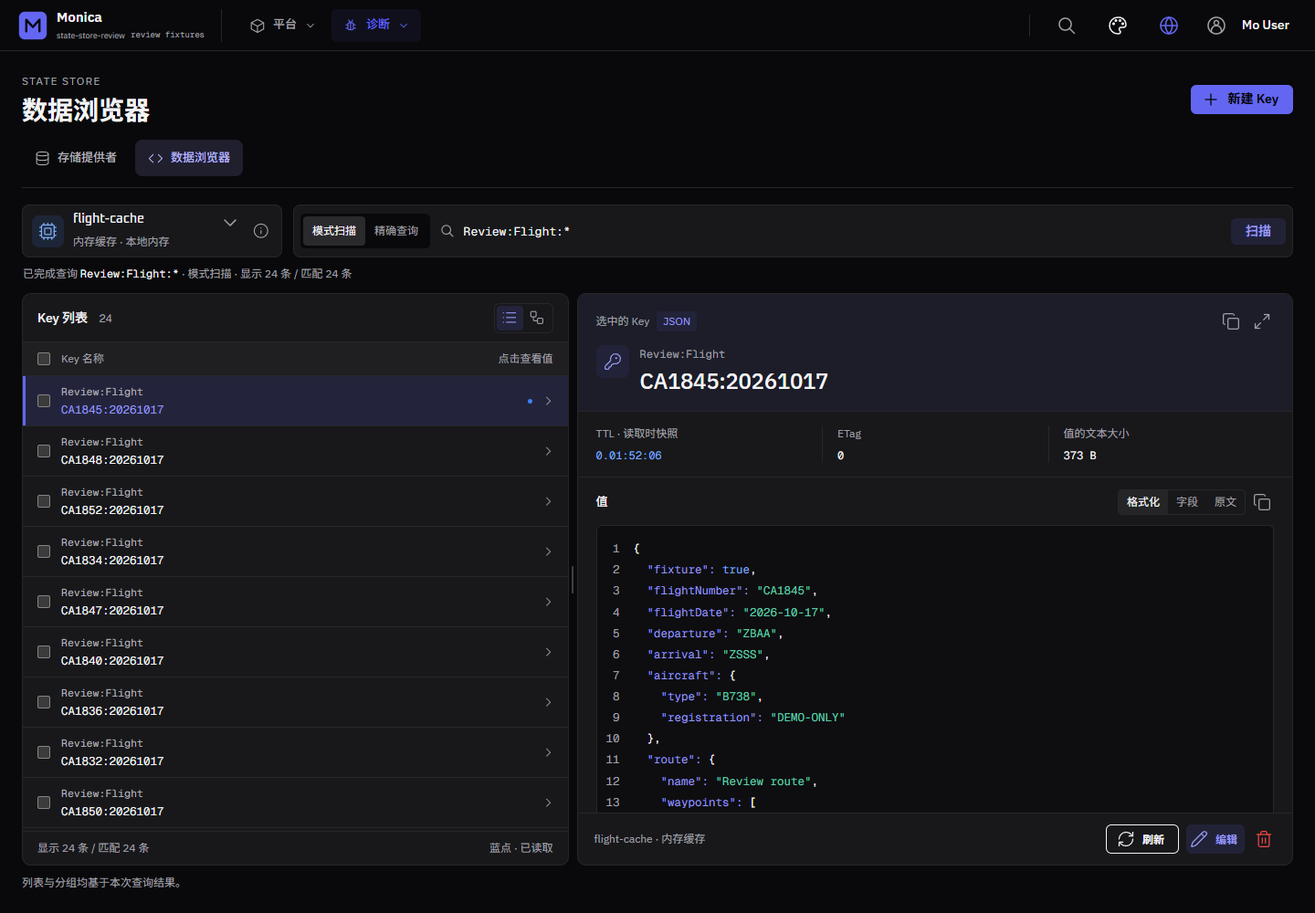
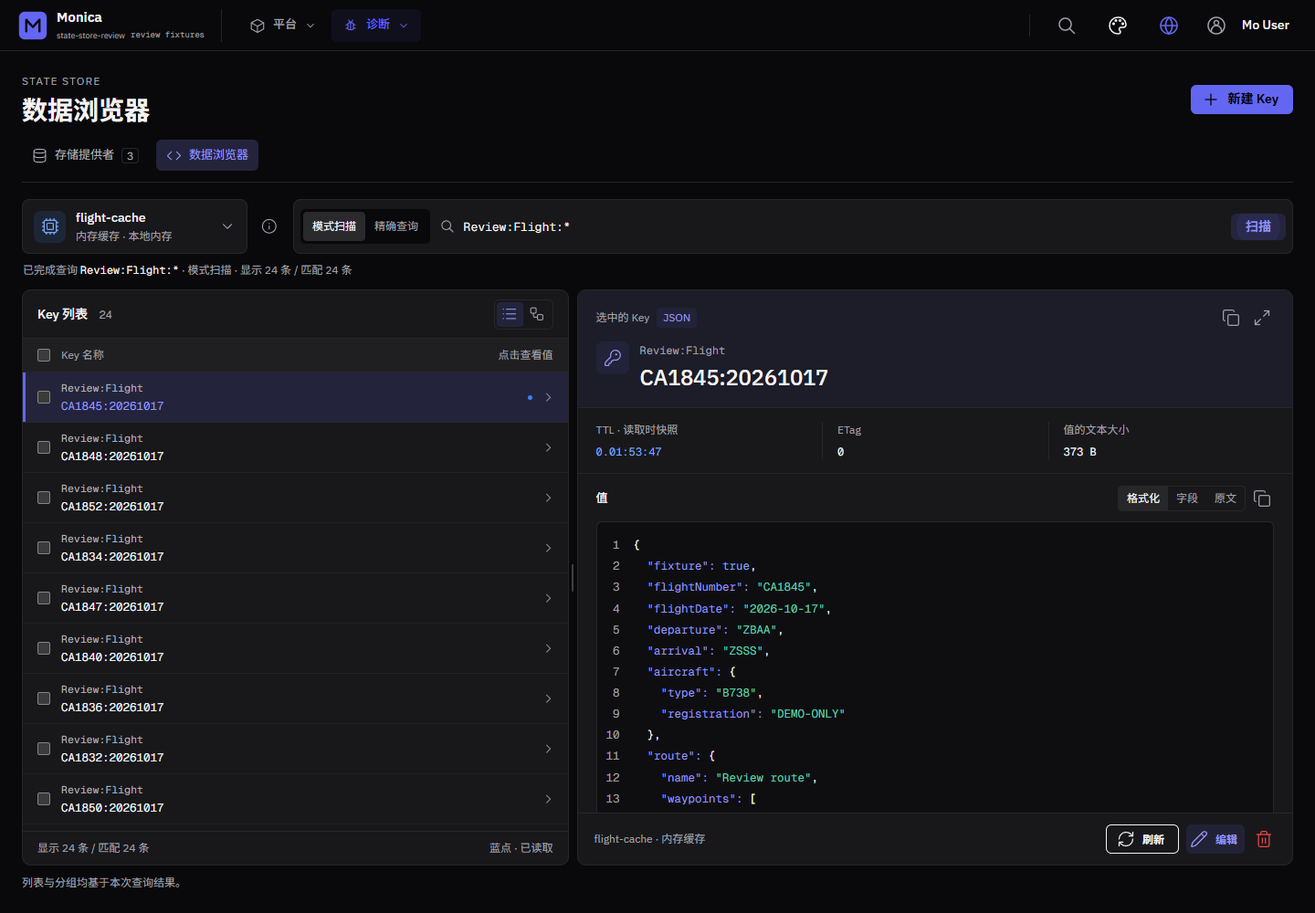
fix(state-store-ui): match provider selector and hover states to prototype
Restore provider icons, two-line scope labels, menu heading, selected marker and visible hover feedback while preserving native select behavior and opaque identities. Bound compact popovers to the viewport and retain readable text across themes.

Verified the Release solution build with zero warnings, all 30 standard test projects, localization and skill checks, and browser checks for six theme modes, keyboard selection, hover feedback and narrow viewports.

diff --git a/Monica.StateStore.UI/UIStateStore/Components/StateStoreKeyExplorer.razor.css b/Monica.StateStore.UI/UIStateStore/Components/StateStoreKeyExplorer.razor.css
@@ -1,30 +1,24 @@
-.state-browser-workspace {width:100%;min-width:0;display:flex;flex-direction:column;color:var(--mud-palette-text-primary);font-family:var(--mo-font-family-body);--state-primary-ink:color-mix(in srgb,var(--mud-palette-primary) 65%,var(--mud-palette-text-primary));}
+.state-browser-workspace {width:100%;min-width:0;display:flex;flex-direction:column;color:var(--mud-palette-text-primary);font-family:var(--mo-font-family-body);--state-primary-ink:color-mix(in srgb,var(--mud-palette-primary) 65%,var(--mud-palette-text-primary));--state-hover-surface:color-mix(in srgb,var(--mud-palette-text-primary) 7%,var(--mud-palette-surface));}
 .workspace-identity {display:flex;align-items:center;justify-content:space-between;gap:16px;margin-bottom:15px;}
 .workspace-identity__copy {min-width:0;}
 .state-browser-workspace ::deep .mo-workbench-navigation {margin-bottom:18px;}
 .workspace-commands {display:grid;grid-template-columns:285px minmax(0,1fr);gap:12px;}
-.provider-context {position:relative;display:grid;grid-template-columns:35px minmax(0,1fr) 24px;grid-template-rows:23px 19px;column-gap:10px;align-items:center;min-width:0;border:1px solid var(--mud-palette-lines-default);border-radius:8px;background:var(--mud-palette-surface);padding:7px 10px;}
-.provider-symbol {grid-row:1/3;display:flex;align-items:center;justify-content:center;width:35px;height:35px;border-radius:8px;background:color-mix(in srgb,var(--mud-palette-primary) 14%,var(--mud-palette-surface));color:var(--state-primary-ink);}
-.provider-symbol[data-tone="info"] {background:color-mix(in srgb,var(--mud-palette-info) 13%,var(--mud-palette-surface));color:color-mix(in srgb,var(--mud-palette-info) 65%,var(--mud-palette-text-primary));}
-.provider-symbol[data-tone="secondary"] {background:color-mix(in srgb,var(--mud-palette-secondary) 13%,var(--mud-palette-surface));color:color-mix(in srgb,var(--mud-palette-secondary) 65%,var(--mud-palette-text-primary));}
-.provider-name {font-size:14px;font-weight:500;overflow:hidden;text-overflow:ellipsis;white-space:nowrap;}
-.provider-description {grid-column:2;grid-row:2;font-size:12px;color:var(--mud-palette-text-secondary);white-space:nowrap;text-overflow:ellipsis;overflow:hidden;}
-.provider-info {grid-column:3;grid-row:1/3;display:flex;align-items:center;justify-content:center;color:var(--mud-palette-text-secondary);width:24px;height:32px;}
-.provider-context ::deep .provider-select {grid-column:2;grid-row:1;margin:0;min-width:0;}
-.provider-context ::deep .mud-input {font-size:14px;font-weight:500;}
-.provider-context ::deep .mud-input::before,.provider-context ::deep .mud-input::after {display:none;}
-.provider-context ::deep .mud-select-input {padding-block:0;min-height:23px;}
-.provider-option {white-space:normal;overflow-wrap:anywhere;}
+.provider-context {display:flex;align-items:center;gap:9px;min-width:0;}
+.provider-context ::deep .provider-picker {flex:1;}
+.provider-info {display:flex;align-items:center;justify-content:center;flex:0 0 auto;color:var(--mud-palette-text-secondary);width:29px;height:36px;border-radius:6px;}
+.provider-info:hover {color:var(--mud-palette-text-primary);background:var(--state-hover-surface);}
 .query-context {display:flex;align-items:center;gap:10px;min-width:0;border:1px solid var(--mud-palette-lines-default);border-radius:8px;background:var(--mud-palette-surface);padding:7px;}
 .mode-switch {display:flex;align-items:center;background:var(--mud-palette-background);padding:3px;border-radius:5px;flex:0 0 auto;}
 .mode-switch button {font:inherit;font-size:12px;color:var(--mud-palette-text-secondary);background:none;border:0;border-radius:4px;padding:7px 10px;cursor:pointer;white-space:nowrap;}
 .mode-switch button[aria-pressed="true"] {color:var(--mud-palette-text-primary);background:color-mix(in srgb,var(--mud-palette-text-primary) 8%,var(--mud-palette-surface));}
+.mode-switch button:hover:not(:disabled) {color:var(--mud-palette-text-primary);background:var(--state-hover-surface);}
 .mode-switch button:disabled {opacity:.4;cursor:default;}
 .query-input {display:flex;align-items:center;gap:9px;flex:1;min-width:35px;color:var(--mud-palette-text-secondary);}
 .query-input input {width:100%;min-width:0;background:none;color:var(--mud-palette-text-primary);border:0;font:13px var(--mo-font-family-mono,monospace);padding:7px 0;outline-offset:3px;}
 .query-input input:focus {outline:none;}
 .query-input:focus-within {box-shadow:0 2px var(--mud-palette-primary);}
 .query-context ::deep .query-submit:not(:disabled):not(.mud-disabled) {background:color-mix(in srgb,var(--mud-palette-primary) 13%,var(--mud-palette-surface));color:var(--state-primary-ink);min-width:60px;}
+.query-context ::deep .query-submit:hover:not(:disabled):not(.mud-disabled) {background:color-mix(in srgb,var(--mud-palette-primary) 21%,var(--mud-palette-surface));}
 .accepted-context {display:flex;gap:6px 12px;flex-wrap:wrap;align-items:center;min-width:0;padding:9px 1px 12px;font-size:12px;color:var(--mud-palette-text-secondary);}
 .accepted-context code {color:var(--mud-palette-text-primary);overflow-wrap:anywhere;}
 .draft-hint {color:color-mix(in srgb,var(--mud-palette-warning) 65%,var(--mud-palette-text-primary));}
@@ -36,13 +30,14 @@
 .view-toggle {display:flex;gap:1px;border:1px solid var(--mud-palette-lines-default);border-radius:6px;padding:2px;}
 .view-toggle button {display:flex;align-items:center;justify-content:center;width:29px;height:27px;border-radius:4px;border:0;background:none;color:var(--mud-palette-text-secondary);cursor:pointer;}
 .view-toggle button[aria-pressed="true"] {background:color-mix(in srgb,var(--mud-palette-primary) 15%,var(--mud-palette-surface));color:var(--state-primary-ink);}
+.view-toggle button:not([aria-pressed="true"]):hover {color:var(--mud-palette-text-primary);background:var(--state-hover-surface);}
 .list-column-heading {display:flex;align-items:center;gap:12px;padding:9px 16px;font-size:12px;color:var(--mud-palette-text-secondary);background:color-mix(in srgb,var(--mud-palette-text-primary) 3%,var(--mud-palette-surface));border-bottom:1px solid var(--mud-palette-lines-default);flex:0 0 auto;}
 .list-column-heading>span:last-child {margin-left:auto;}
 input[type="checkbox"] {width:14px;height:14px;margin:0;accent-color:var(--mud-palette-primary);flex:0 0 auto;cursor:pointer;}
 .inventory-body {flex:1;min-height:0;overflow:hidden;}
 .results-list {height:100%;overflow-y:auto;overflow-x:hidden;scrollbar-width:thin;}
-.result-row {position:relative;display:flex;align-items:center;gap:12px;min-width:0;padding:0 14px 0 16px;border-bottom:1px solid var(--mud-palette-lines-default);}
-.result-row:hover {background:color-mix(in srgb,var(--mud-palette-text-primary) 4%,var(--mud-palette-surface));}
+.result-row {position:relative;display:flex;align-items:center;gap:12px;min-width:0;padding:0 14px 0 16px;border-bottom:1px solid color-mix(in srgb,var(--mud-palette-lines-default) 65%,transparent);}
+.result-row:hover {background:var(--state-hover-surface);}
 .result-row.is-selected {background:color-mix(in srgb,var(--mud-palette-primary) 15%,var(--mud-palette-surface));}
 .result-row.is-selected::before {position:absolute;content:"";left:0;top:0;bottom:0;width:3px;background:var(--mud-palette-primary);}
 .result-select {display:flex;align-items:center;gap:10px;flex:1;min-width:0;padding:8px 0;min-height:53px;text-align:start;border:0;background:none;color:inherit;font:inherit;cursor:pointer;}
@@ -60,6 +55,7 @@ input[type="checkbox"] {width:14px;height:14px;margin:0;accent-color:var(--mud-p
 .key-group {border-bottom:1px solid var(--mud-palette-lines-default);}
 .key-group>summary {list-style:none;display:flex;align-items:center;gap:8px;padding:13px 15px;cursor:pointer;}
 .key-group>summary::-webkit-details-marker {display:none;}
+.key-group>summary:hover {background:var(--state-hover-surface);}
 .key-group>summary code {font-size:12px;overflow-wrap:anywhere;min-width:0;}
 .key-group>summary>span {margin-left:auto;color:var(--mud-palette-text-secondary);font:12px var(--mo-font-family-mono,monospace);}
 .key-group>summary ::deep .mo-icon:nth-child(2) {color:var(--state-primary-ink);}
@@ -71,6 +67,7 @@ input[type="checkbox"] {width:14px;height:14px;margin:0;accent-color:var(--mud-p
 .inspector-heading {padding:17px 20px 16px;background:color-mix(in srgb,var(--mud-palette-primary) 6%,var(--mud-palette-surface));border-bottom:1px solid var(--mud-palette-lines-default);flex:0 0 auto;}
 .inspector-topline {display:flex;align-items:center;gap:8px;color:var(--mud-palette-text-secondary);font-size:12px;margin-bottom:13px;}
 .inspector-topline ::deep .copy-key {margin-left:auto;}
+.inspector-topline ::deep .mud-icon-button:hover:not(:disabled):not(.mud-disabled) {color:var(--mud-palette-text-primary);background:var(--state-hover-surface);}
 .format-badge {color:var(--state-primary-ink);background:color-mix(in srgb,var(--mud-palette-primary) 14%,var(--mud-palette-surface));padding:2px 7px;border-radius:4px;font-size:12px;}
 .key-identity {display:flex;align-items:flex-start;gap:12px;min-width:0;}
 .key-identity>div {min-width:0;}
@@ -89,7 +86,9 @@ input[type="checkbox"] {width:14px;height:14px;margin:0;accent-color:var(--mud-p
 .inspector-actions>div {display:flex;align-items:center;flex-wrap:wrap;justify-content:flex-end;gap:8px;}
 .inspector-actions ::deep .mud-button {font-size:12px;}
 .inspector-actions ::deep .edit-key:not(:disabled):not(.mud-disabled) {background:color-mix(in srgb,var(--mud-palette-primary) 13%,var(--mud-palette-surface));color:var(--state-primary-ink);}
+.inspector-actions ::deep .edit-key:hover:not(:disabled):not(.mud-disabled) {background:color-mix(in srgb,var(--mud-palette-primary) 21%,var(--mud-palette-surface));}
 .back-to-keys {display:none;align-items:center;gap:6px;font:inherit;font-size:12px;background:none;border:0;color:var(--mud-palette-text-secondary);cursor:pointer;padding:0;}
+.back-to-keys:hover {color:var(--mud-palette-text-primary);}
 .mobile-provider {display:none;min-width:0;max-width:110px;overflow:hidden;text-overflow:ellipsis;white-space:nowrap;}
 .state-browser-workspace code {font-family:var(--mo-font-family-mono,monospace);font-weight:400;}
 .results-note {font-size:12px;color:var(--mud-palette-text-secondary);margin:10px 0 0;}
@@ -106,6 +105,7 @@ button:focus-visible,a:focus-visible,.inventory-heading:focus,.inspector-heading
 .state-browser-workspace[data-expanded="true"]:not([data-compact="true"]) .workspace-master-detail {grid-template-columns:minmax(0,1fr);}
 .state-browser-workspace[data-expanded="true"]:not([data-compact="true"]) .inventory,.state-browser-workspace[data-expanded="true"]:not([data-compact="true"]) .pane-resizer {display:none;}
 .state-browser-workspace[data-compact="true"] .workspace-commands {grid-template-columns:minmax(0,1fr);}
+.state-browser-workspace[data-compact="true"] .provider-info {width:36px;}
 .state-browser-workspace[data-compact="true"] .workspace-master-detail {grid-template-columns:minmax(0,1fr);}
 .state-browser-workspace[data-compact="true"] .pane-resizer {display:none;}
 .state-browser-workspace[data-compact="true"] .workspace-state {min-height:220px;}

diff --git a/Monica.StateStore.UI/UIStateStore/Components/StateStoreProviderSelector.razor.css b/Monica.StateStore.UI/UIStateStore/Components/StateStoreProviderSelector.razor.css
@@ -1,0 +1,19 @@
+.provider-picker {min-width:0;}
+.provider-picker ::deep .provider-select {margin:0;min-width:0;}
+.provider-picker ::deep .mud-input {padding:9px 12px;min-height:60px;border:1px solid var(--mud-palette-lines-default);border-radius:8px;background:var(--mud-palette-surface);font-family:var(--mo-font-family-body);}
+.provider-picker ::deep .mud-input-slot {padding:0;min-width:0;}
+.provider-picker ::deep div[role="combobox"].mud-input-slot {height:auto;overflow:visible;}
+.provider-picker ::deep .mud-input-adornment {margin-left:11px;color:var(--mud-palette-text-primary);}
+.provider-picker ::deep .mud-input-adornment-icon {width:18px;height:18px;}
+.provider-picker ::deep .mud-input:hover,.provider-picker ::deep .mud-input:focus-within,.provider-picker[data-open="true"] ::deep .mud-input {border-color:var(--mud-palette-primary);}
+.provider-picker ::deep [role="combobox"]:focus-visible {outline:none;}
+.provider-static {padding:9px 12px;min-height:60px;border:1px solid var(--mud-palette-lines-default);border-radius:8px;background:var(--mud-palette-surface);display:flex;align-items:center;}
+.provider-option {display:flex;align-items:center;gap:11px;min-width:0;width:100%;text-align:start;color:var(--mud-palette-text-primary);font:400 14px/1.5 var(--mo-font-family-body);--provider-role:var(--mud-palette-primary);}
+.provider-option[data-tone="info"] {--provider-role:var(--mud-palette-info);}
+.provider-option[data-tone="secondary"] {--provider-role:var(--mud-palette-secondary);}
+.provider-symbol {display:inline-flex;align-items:center;justify-content:center;width:35px;height:35px;flex:0 0 auto;border-radius:8px;background:color-mix(in srgb,var(--provider-role) 13%,var(--mud-palette-surface));color:color-mix(in srgb,var(--provider-role) 65%,var(--mud-palette-text-primary));}
+.provider-caption {display:flex;flex-direction:column;gap:1px;flex:1;min-width:0;}
+.provider-caption strong {font-size:14px;font-weight:500;line-height:21px;overflow:hidden;text-overflow:ellipsis;white-space:nowrap;}
+.provider-description {font-size:12px;line-height:18px;color:var(--mud-palette-text-secondary);overflow:hidden;text-overflow:ellipsis;white-space:nowrap;}
+.provider-selection-mark {display:none;flex:0 0 auto;}
+@media(max-width:760px) {.provider-caption strong {font-size:13px;}.provider-static,.provider-picker ::deep .mud-input {padding:7px 10px;min-height:56px;}}

diff --git a/Monica.StateStore.UI/Pages/UIStateStoreProvidersPage.razor.css b/Monica.StateStore.UI/Pages/UIStateStoreProvidersPage.razor.css
@@ -25,6 +25,7 @@ h2 {font-size:16px;font-weight:500;margin:0;}
 .provider-row[data-tone="info"] {--role:var(--mud-palette-info);}
 .provider-row[data-tone="secondary"] {--role:var(--mud-palette-secondary);}
 .provider-row.is-selected {background:color-mix(in srgb,var(--mud-palette-primary) 6%,var(--mud-palette-surface));}
+.provider-row:hover:not(.is-selected) {background:color-mix(in srgb,var(--mud-palette-text-primary) 7%,var(--mud-palette-surface));}
 .provider-icon {display:flex;align-items:center;justify-content:center;flex:0 0 auto;width:42px;height:42px;border-radius:8px;color:var(--ink);background:color-mix(in srgb,var(--role) 13%,var(--mud-palette-surface));}
 .select-provider {flex:1;min-width:0;display:flex;flex-direction:column;align-items:flex-start;gap:7px;text-align:start;background:none;border:0;color:inherit;font:inherit;cursor:pointer;padding:0;}
 .select-provider strong {font-weight:500;font-size:15px;overflow-wrap:anywhere;}
@@ -32,7 +33,7 @@ h2 {font-size:16px;font-weight:500;margin:0;}
 .select-provider .capability-tag,.default-tag {font-size:12px;color:var(--ink);background:color-mix(in srgb,var(--role) 13%,var(--mud-palette-surface));padding:2px 6px;border-radius:4px;}
 .default-tag {font-weight:400;margin-left:5px;}
 .browse-link {display:flex;align-items:center;gap:8px;border:1px solid var(--mud-palette-lines-inputs);border-radius:6px;padding:6px 10px;font-size:12px;white-space:nowrap;}
-.browse-link:hover {background:color-mix(in srgb,var(--mud-palette-text-primary) 5%,var(--mud-palette-surface));}
+.browse-link:hover {background:color-mix(in srgb,var(--mud-palette-text-primary) 7%,var(--mud-palette-surface));border-color:var(--mud-palette-text-secondary);}
 .provider-registry>footer {display:flex;gap:8px;padding:14px 20px;font-size:12px;color:var(--mud-palette-text-secondary);background:color-mix(in srgb,var(--mud-palette-text-primary) 3%,var(--mud-palette-surface));}
 .selected-provider {min-width:0;}
 .page-note {margin:0;font-size:12px;color:var(--mud-palette-text-secondary);}

diff --git a/Monica.StateStore.UI/wwwroot/UIStateStore/provider-selector.css b/Monica.StateStore.UI/wwwroot/UIStateStore/provider-selector.css
@@ -1,0 +1,22 @@
+/* The native select popover is portaled outside the component's isolated DOM. */
+.state-store-provider-popover.mud-popover {
+    width:min(320px,calc(100vw - 40px));
+    margin-top:7px;
+    padding:6px;
+    border:1px solid color-mix(in srgb,var(--mud-palette-text-secondary) 30%,var(--mud-palette-lines-default));
+    border-radius:9px;
+    background:color-mix(in srgb,var(--mud-palette-text-primary) 4%,var(--mud-palette-surface));
+    box-shadow:0 12px 40px var(--mud-palette-overlay-dark);
+    color:var(--mud-palette-text-primary);
+    font-family:var(--mo-font-family-body);
+}
+.state-store-provider-popover .state-store-provider-options {padding:0;}
+.state-store-provider-popover .state-store-provider-options .mud-list-item {padding:10px;border-radius:5px;color:var(--mud-palette-text-primary);}
+.state-store-provider-popover .state-store-provider-options .mud-list-item-text {margin:0;min-width:0;}
+.state-store-provider-popover .state-store-provider-options .mud-typography {font-family:inherit;}
+.state-store-provider-popover .state-store-provider-options .provider-description {color:color-mix(in srgb,var(--mud-palette-text-secondary) 80%,var(--mud-palette-text-primary));}
+.state-store-provider-popover .state-store-provider-options .mud-list-item:hover {background:color-mix(in srgb,var(--mud-palette-text-primary) 7%,var(--mud-palette-surface));}
+/* The native selected-color utility uses an important background declaration. */
+.state-store-provider-popover .state-store-provider-options .mud-list-item[aria-selected="true"] {background:color-mix(in srgb,var(--mud-palette-primary) 15%,var(--mud-palette-surface)) !important;}
+.state-store-provider-popover .state-store-provider-options .mud-list-item:focus-visible {outline:2px solid var(--mud-palette-primary);outline-offset:-2px;}
+.state-store-provider-popover .state-store-provider-options .provider-selection-mark {display:inline-flex;}

diff --git a/Monica.StateStore.UI/UIStateStore/Components/StateStoreValueViewer.razor.css b/Monica.StateStore.UI/UIStateStore/Components/StateStoreValueViewer.razor.css
@@ -4,7 +4,8 @@ header strong {font-size:13px;font-weight:500;}
 .value-tools {display:flex;align-items:center;gap:5px;}
 .view-switch {display:flex;border:1px solid var(--mud-palette-lines-default);border-radius:5px;overflow:hidden;}
 .view-switch button {background:none;border:0;font:inherit;font-size:12px;padding:4px 9px;color:var(--mud-palette-text-secondary);cursor:pointer;}
-.view-switch button[aria-pressed="true"] {background:color-mix(in srgb,var(--mud-palette-text-primary) 6%,var(--mud-palette-surface));color:var(--mud-palette-text-primary);}
+.view-switch button[aria-pressed="true"],.view-switch button:hover:not(:disabled) {background:color-mix(in srgb,var(--mud-palette-text-primary) 7%,var(--mud-palette-surface));color:var(--mud-palette-text-primary);}
+.value-tools ::deep .mud-icon-button:hover:not(:disabled):not(.mud-disabled) {background:color-mix(in srgb,var(--mud-palette-text-primary) 7%,var(--mud-palette-surface));color:var(--mud-palette-text-primary);}
 .view-switch button:disabled {opacity:.4;cursor:default;}
 button:focus-visible {outline:2px solid var(--mud-palette-primary);outline-offset:-2px;}
 .code-view {font:12.5px/1.85 var(--mo-font-family-mono,monospace);background:color-mix(in srgb,var(--mud-palette-background) 65%,var(--mud-palette-surface));border:1px solid var(--mud-palette-lines-default);border-radius:6px;overflow-x:auto;margin:0 20px 16px;padding:13px 0;scrollbar-width:thin;}

diff --git a/Monica.StateStore.UI/UIStateStore/Components/StateStoreWorkbenchNavigation.razor.css b/Monica.StateStore.UI/UIStateStore/Components/StateStoreWorkbenchNavigation.razor.css
@@ -1,0 +1,5 @@
+.state-workbench-navigation ::deep .mo-workbench-navigation {gap:8px;}
+.state-workbench-navigation ::deep .mo-workbench-navigation a {min-height:34px;padding:7px 11px;border-radius:6px;font-weight:400;}
+.state-workbench-navigation ::deep .mo-workbench-navigation a[aria-current="page"] {color:color-mix(in srgb,var(--mud-palette-primary) 65%,var(--mud-palette-text-primary));background:color-mix(in srgb,var(--mud-palette-primary) 15%,var(--mud-palette-surface));}
+.nav-count {padding:0 5px;border:1px solid var(--mud-palette-lines-default);border-radius:4px;font:11.5px var(--mo-font-family-mono,monospace);}
+@media(max-width:760px) {.state-workbench-navigation ::deep .mo-workbench-navigation {gap:5px;}.state-workbench-navigation ::deep .mo-workbench-navigation a {padding:7px 10px;}}

diff --git a/Monica.StateStore.UI/UIStateStore/Components/StateStoreProviderSelectHeading.razor.css b/Monica.StateStore.UI/UIStateStore/Components/StateStoreProviderSelectHeading.razor.css
@@ -1,0 +1,1 @@
+.provider-menu-caption {margin:0;padding:8px 10px;font-size:12px;line-height:18px;color:var(--mud-palette-text-secondary);}

diff --git a/Monica.StateStore.UI/UIStateStore/Components/StateStoreKeyExplorer.razor.cs b/Monica.StateStore.UI/UIStateStore/Components/StateStoreKeyExplorer.razor.cs
@@ -475,7 +475,6 @@ public partial class StateStoreKeyExplorer
     private bool CanShowRowSelection() => Options.AllowKeyDeletion && selectedProvider?.SupportsBulkDelete == true;
     private bool IsSearchMode(EStateStoreKeySearchMode mode) => searchMode == mode;
     private string GetProviderCaption(StateStoreProviderInfo provider) => L.GetProviderDisplayName(provider) + " · " + L.GetProviderTypeText(provider.ProviderType);
-    private string GetProviderCardDescription(StateStoreProviderInfo provider) => L.GetProviderTypeText(provider.ProviderType) + " · " + L[provider.IsDistributed ? "ProviderDetail:Labels:Distributed" : "ProviderDetail:Labels:LocalMemory"];
     private string GetSearchLabel() => L[searchMode == EStateStoreKeySearchMode.PatternScan ? "KeyExplorer:Labels:KeyPattern" : "KeyExplorer:Labels:KeyName"];
     private string GetSearchPlaceholder() => L[searchMode == EStateStoreKeySearchMode.PatternScan ? "KeyExplorer:Placeholders:PatternSearch" : "KeyExplorer:Placeholders:FullKeyName"];
     private string GetSearchActionText() => L[searchMode == EStateStoreKeySearchMode.PatternScan ? "KeyExplorer:Actions:Scan" : "KeyExplorer:Actions:Query"];

diff --git a/.agents/skills/monica-infra-hosting/references/state-stores.md b/.agents/skills/monica-infra-hosting/references/state-stores.md
@@ -28,6 +28,8 @@ Use `AddKeyedCommonStateStore(key, useDistributed: true)` to expose the selected
 
 The browser adapters cover memory, Redis, and Dapr; the selected provider still determines which operations, such as key scanning or exact lookup, can work. Queries are explicit. List and colon-delimited namespace views use the same completed result, while editing the draft query leaves that result's provenance visible until another query runs. Only the selected value is loaded. JSON formatting and field views present that value; they are not Redis-native hash operations. The displayed byte count is its UTF-8 text size, not backend memory usage. A compact browser switches between results and focused details and returns focus to the selected key.
 
+The browser's context selector presents the registration name, provider type, local/distributed scope, icon, and selected marker together. It commits the opaque registration identity through a native MudBlazor select, retaining arrow-key, Enter, Escape, and focus behavior. A single registration is a static context card rather than a menu. The surrounding details link opens that same registration in the inventory.
+
 `MaxKeysPerPage` defaults to 50 displayed results. A scan result's matched count and `HasMore` describe a truncated snapshot; the adapter does not supply a cursor or a next page, and its scan can enumerate more keys than the display limit. Namespace counts describe displayed results rather than the whole store. Exact lookup distinguishes an existing record from a successful missing result. TTL and ETag are observed metadata, not an atomic snapshot or a live countdown.
 
 Create, edit and delete default to enabled and have independent UI option gates. Creation uses create-if-absent; an ETag, when supplied, protects a conditional update or single deletion. Bulk deletion names explicit selected keys without per-key ETags; it does not mean all matches or all provider keys. The dialog's zero-second TTL input is converted to a null duration before persistence. These UI controls do not configure host authorization. For service-discovery storage, read [service-discovery.md](service-discovery.md): its choice binds directly to the selected memory/distributed/keyed service, independently of the default unkeyed `IStateStore`.

diff --git a/.claude/skills/monica-infra-hosting/references/state-stores.md b/.claude/skills/monica-infra-hosting/references/state-stores.md
@@ -28,6 +28,8 @@ Use `AddKeyedCommonStateStore(key, useDistributed: true)` to expose the selected
 
 The browser adapters cover memory, Redis, and Dapr; the selected provider still determines which operations, such as key scanning or exact lookup, can work. Queries are explicit. List and colon-delimited namespace views use the same completed result, while editing the draft query leaves that result's provenance visible until another query runs. Only the selected value is loaded. JSON formatting and field views present that value; they are not Redis-native hash operations. The displayed byte count is its UTF-8 text size, not backend memory usage. A compact browser switches between results and focused details and returns focus to the selected key.
 
+The browser's context selector presents the registration name, provider type, local/distributed scope, icon, and selected marker together. It commits the opaque registration identity through a native MudBlazor select, retaining arrow-key, Enter, Escape, and focus behavior. A single registration is a static context card rather than a menu. The surrounding details link opens that same registration in the inventory.
+
 `MaxKeysPerPage` defaults to 50 displayed results. A scan result's matched count and `HasMore` describe a truncated snapshot; the adapter does not supply a cursor or a next page, and its scan can enumerate more keys than the display limit. Namespace counts describe displayed results rather than the whole store. Exact lookup distinguishes an existing record from a successful missing result. TTL and ETag are observed metadata, not an atomic snapshot or a live countdown.
 
 Create, edit and delete default to enabled and have independent UI option gates. Creation uses create-if-absent; an ETag, when supplied, protects a conditional update or single deletion. Bulk deletion names explicit selected keys without per-key ETags; it does not mean all matches or all provider keys. The dialog's zero-second TTL input is converted to a null duration before persistence. These UI controls do not configure host authorization. For service-discovery storage, read [service-discovery.md](service-discovery.md): its choice binds directly to the selected memory/distributed/keyed service, independently of the default unkeyed `IStateStore`.

diff --git a/skills/monica-infra-hosting/references/state-stores.md b/skills/monica-infra-hosting/references/state-stores.md
@@ -28,6 +28,8 @@ Use `AddKeyedCommonStateStore(key, useDistributed: true)` to expose the selected
 
 The browser adapters cover memory, Redis, and Dapr; the selected provider still determines which operations, such as key scanning or exact lookup, can work. Queries are explicit. List and colon-delimited namespace views use the same completed result, while editing the draft query leaves that result's provenance visible until another query runs. Only the selected value is loaded. JSON formatting and field views present that value; they are not Redis-native hash operations. The displayed byte count is its UTF-8 text size, not backend memory usage. A compact browser switches between results and focused details and returns focus to the selected key.
 
+The browser's context selector presents the registration name, provider type, local/distributed scope, icon, and selected marker together. It commits the opaque registration identity through a native MudBlazor select, retaining arrow-key, Enter, Escape, and focus behavior. A single registration is a static context card rather than a menu. The surrounding details link opens that same registration in the inventory.
+
 `MaxKeysPerPage` defaults to 50 displayed results. A scan result's matched count and `HasMore` describe a truncated snapshot; the adapter does not supply a cursor or a next page, and its scan can enumerate more keys than the display limit. Namespace counts describe displayed results rather than the whole store. Exact lookup distinguishes an existing record from a successful missing result. TTL and ETag are observed metadata, not an atomic snapshot or a live countdown.
 
 Create, edit and delete default to enabled and have independent UI option gates. Creation uses create-if-absent; an ETag, when supplied, protects a conditional update or single deletion. Bulk deletion names explicit selected keys without per-key ETags; it does not mean all matches or all provider keys. The dialog's zero-second TTL input is converted to a null duration before persistence. These UI controls do not configure host authorization. For service-discovery storage, read [service-discovery.md](service-discovery.md): its choice binds directly to the selected memory/distributed/keyed service, independently of the default unkeyed `IStateStore`.
